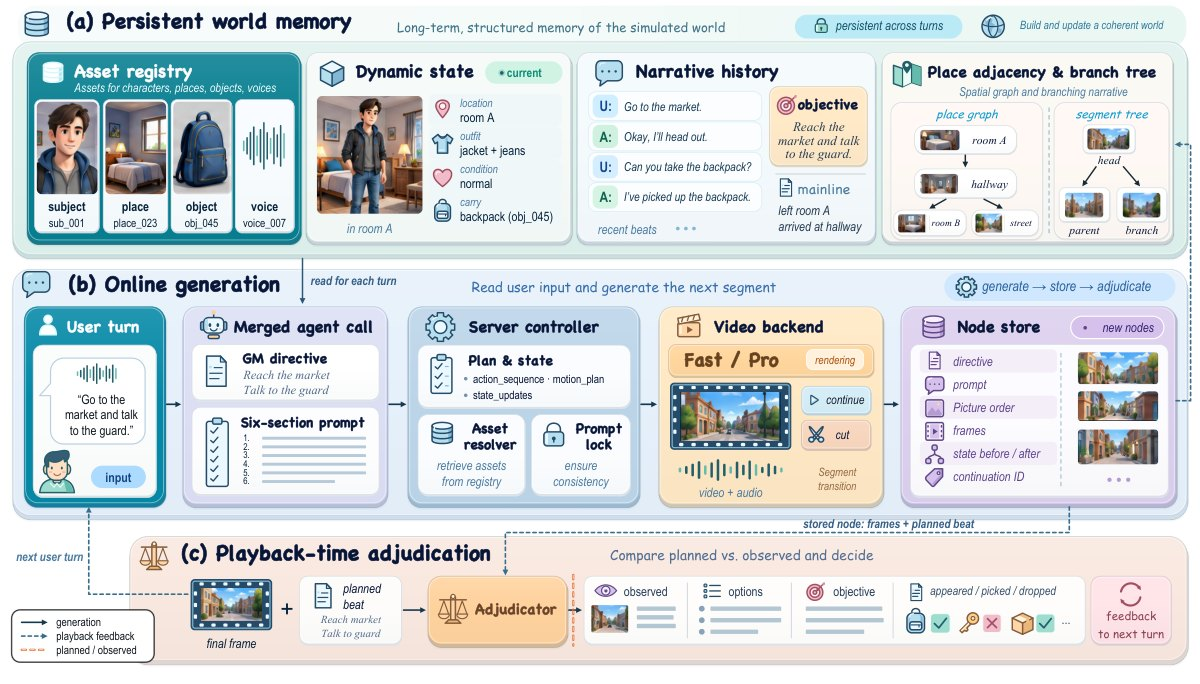
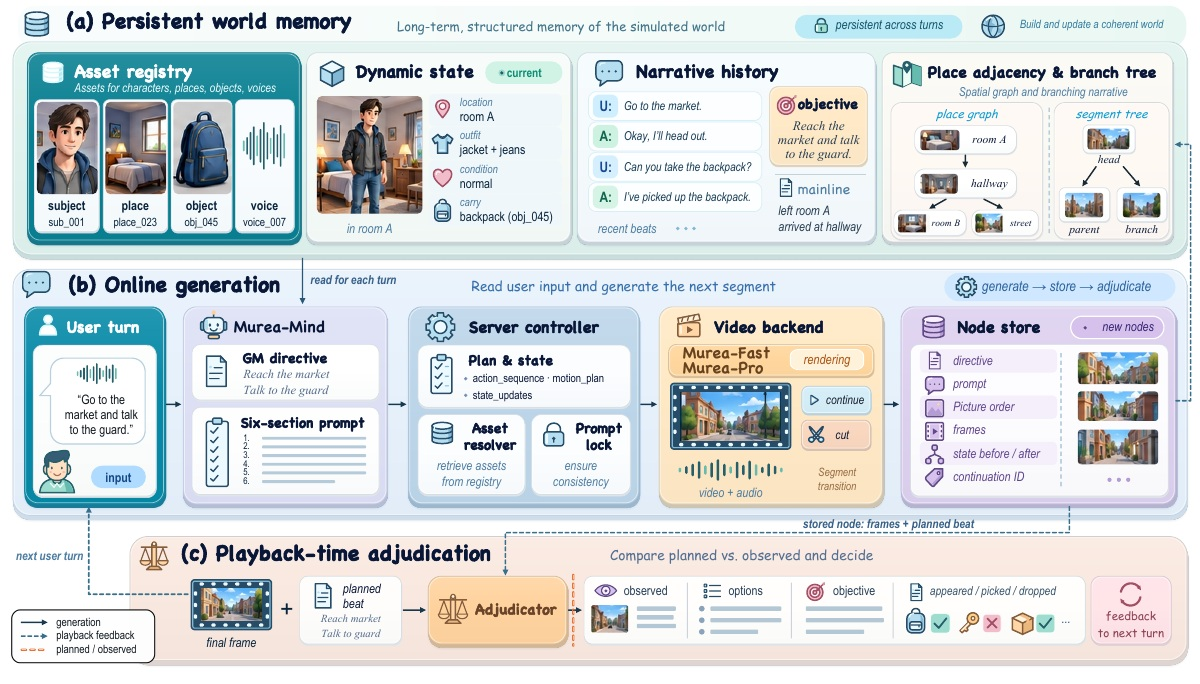
Refresh world framework figure with Murea-Mind naming

diff --git a/index.html b/index.html
@@ -2004,10 +2004,10 @@
     </div>
 
     <figure class="figure">
-      <a class="figure__frame" href="page/assets/img/fig-agent@4x.jpg">
-        <img src="page/assets/img/fig-agent-1200.jpg" srcset="page/assets/img/fig-agent-1200.jpg 1200w, page/assets/img/fig-agent.jpg 2400w, page/assets/img/fig-agent@2x.jpg 4800w, page/assets/img/fig-agent@4x.jpg 9600w" sizes="(min-width: 80rem) 75rem, 100vw" alt="Diagram of Murea-Mind in three bands: (a) persistent world memory with asset registry, dynamic state, narrative history, place graph and segment tree; (b) online generation from user turn through merged agent call, server controller, video backend and node store; (c) playback-time adjudication comparing the final frame with the planned beat." loading="lazy" width="1200" height="684">
+      <a class="figure__frame" href="page/assets/img/fig-agent@4x.jpg?v=murea-mind-20261017">
+        <img src="page/assets/img/fig-agent-1200.jpg?v=murea-mind-20261017" srcset="page/assets/img/fig-agent-1200.jpg?v=murea-mind-20261017 1200w, page/assets/img/fig-agent.jpg?v=murea-mind-20261017 2400w, page/assets/img/fig-agent@2x.jpg?v=murea-mind-20261017 4800w, page/assets/img/fig-agent@4x.jpg?v=murea-mind-20261017 9600w" sizes="(min-width: 80rem) 75rem, 100vw" alt="Diagram of Murea-Mind in three bands: (a) persistent world memory with asset registry, dynamic state, narrative history, place graph and segment tree; (b) online generation from user turn through Murea-Mind, server controller, video backend and node store; (c) playback-time adjudication comparing the final frame with the planned beat." loading="lazy" width="1200" height="684">
       </a>
-      <figcaption><b>Murea-Mind.</b> (a) The persistent world state. (b) One turn: a single planner call returns the directive and the six-section prompt; the compiler resolves events, motion plan, and state updates and binds every name to a registered asset; the video backend renders by continuation or cut; the result is stored as a node. (c) During playback, the observation model compares the final frame with the planned event and writes back what was seen. <a class="figure__open" href="page/assets/img/fig-agent@4x.jpg">Open full size</a></figcaption>
+      <figcaption><b>Murea-Mind.</b> (a) The persistent world state. (b) One turn: a single planner call returns the directive and the six-section prompt; the compiler resolves events, motion plan, and state updates and binds every name to a registered asset; the video backend renders by continuation or cut; the result is stored as a node. (c) During playback, the observation model compares the final frame with the planned event and writes back what was seen. <a class="figure__open" href="page/assets/img/fig-agent@4x.jpg?v=murea-mind-20261017">Open full size</a></figcaption>
     </figure>
 
     <div class="story-collection" id="agent-stories" role="region" aria-labelledby="agent-stories-h">
